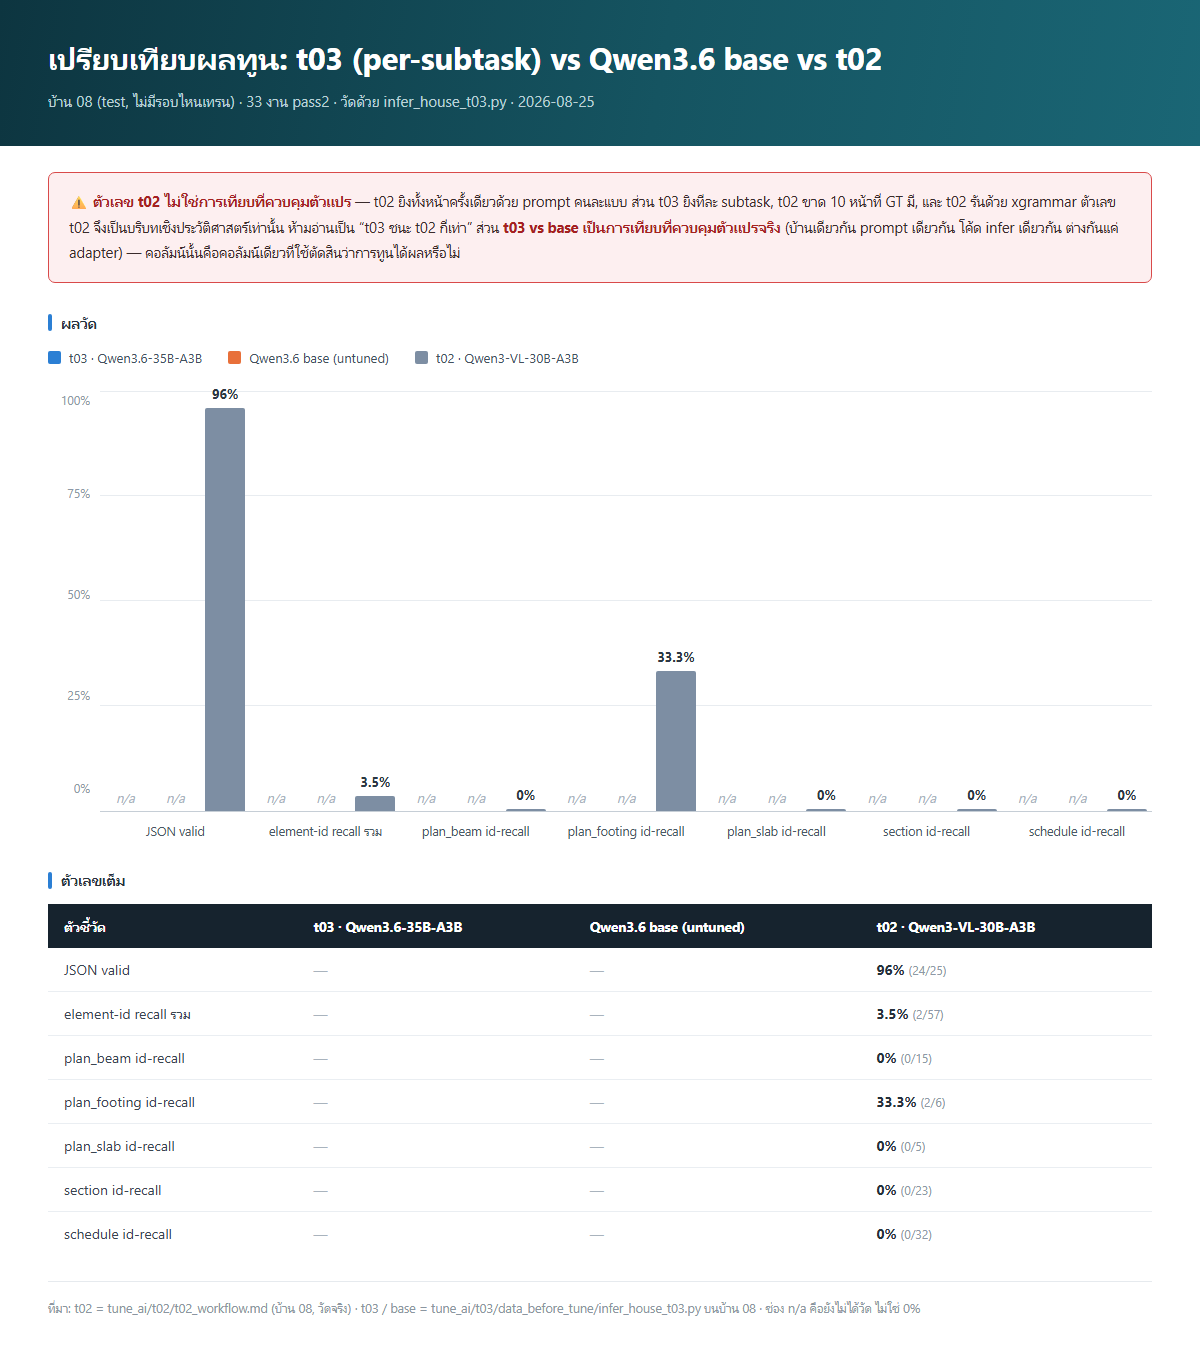
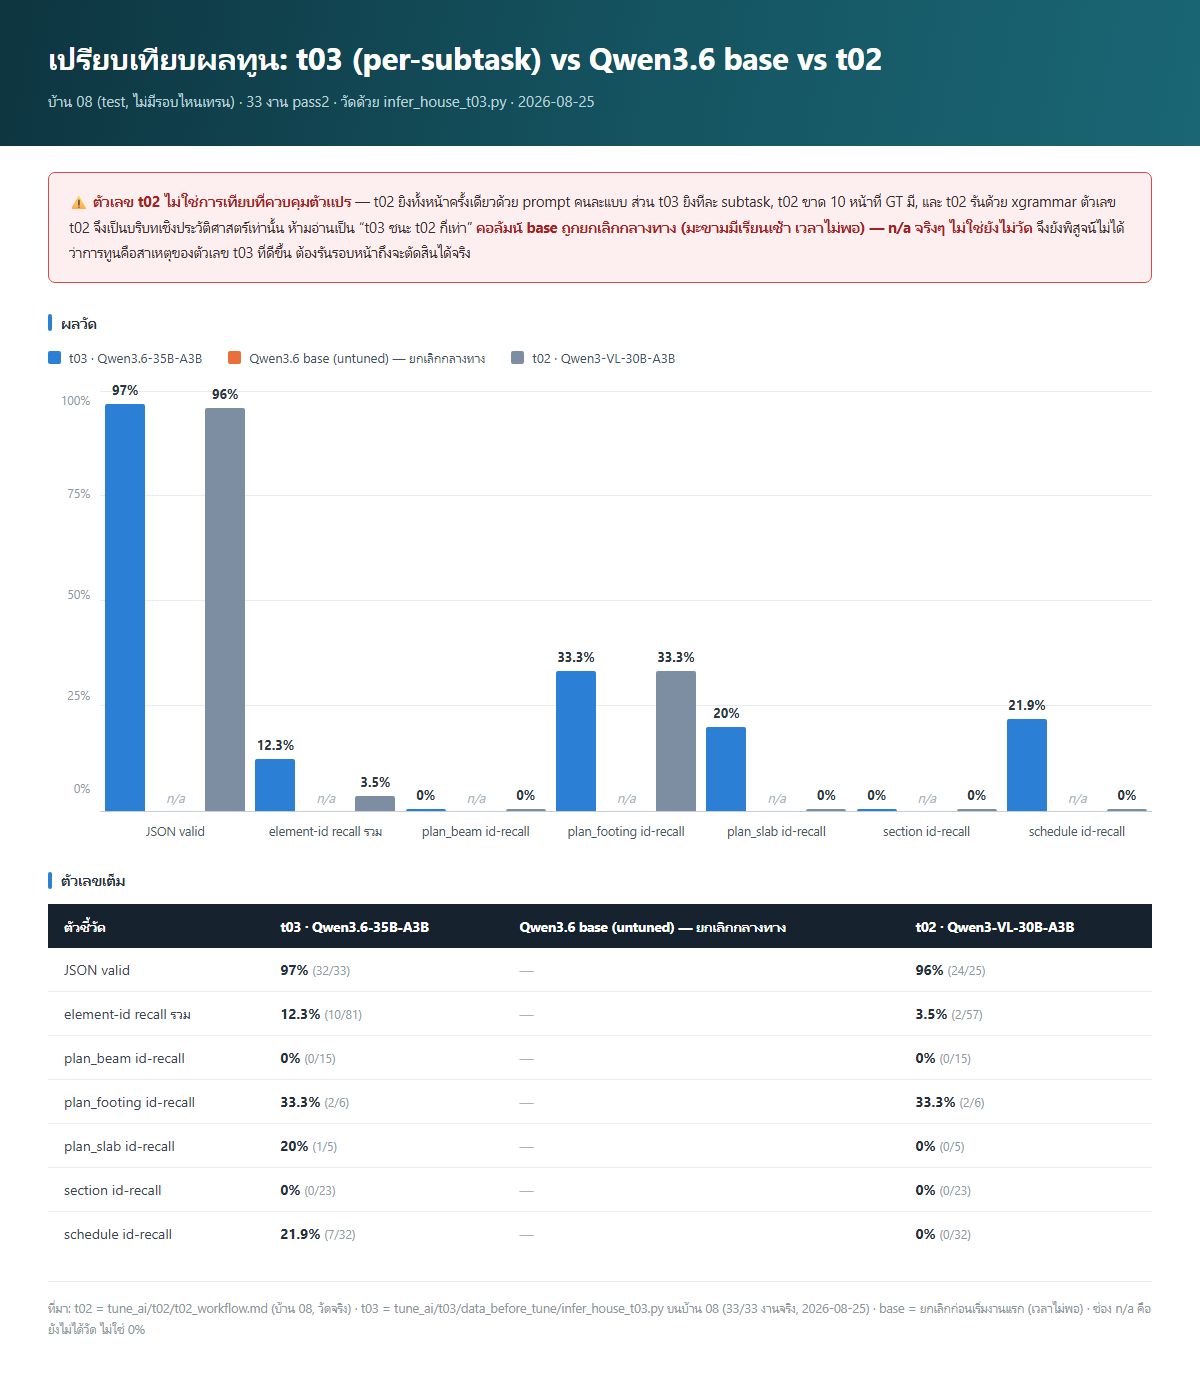
t03: training complete, house08 tuned inference (33/33), comparison PNG
- train_t03.py: 3 epochs done, train_loss 0.2249, adapter verified sha256
  and uploaded to Sicilian44/t03 (public HF repo)
- Two distinct JSON malformation bugs found on first inference attempt
  (missing brace on gridline, unterminated decimal + missing key-quote on
  notes) - not data pollution (warnings[] field content is legitimate);
  switched to --grammar-all instead of chasing individual regex patches
- house08 (held-out benchmark, never trained by t02 or t03): JSON valid
  32/33 (97%), id-recall 10/81 (12.3%) vs t02's 2/57 (3.5%) - schedule and
  plan_slab now show real positive recall t02 never achieved, but
  plan_beam - the subtask this whole round was designed to fix - is still
  0/15, same as t02. Model wrote page-20 beam plan as bare metadata
  (wrong house's source_image) with no elements[] at all.
- base (untuned) model comparison run started then cancelled mid-task
  (time constraint) - comparison PNG's base column is honestly n/a, not
  measured, not silently omitted
- .gitignore: exclude ผล_t03_run/ (3.78GB local adapter copy, already on HF)

diff --git a/tune_ai/t03/data_before_tune/infer_house_t03.py b/tune_ai/t03/data_before_tune/infer_house_t03.py
@@ -37,7 +37,11 @@ def strip_fence(text):
     t = text.strip()
     m = re.match(r"^```(?:json)?\s*(.*?)\s*```$", t, re.DOTALL)
     t = m.group(1).strip() if m else t
-    return re.sub(r",(\s*[}\]])", r"\1", t)   # กันเผื่อ path ที่ไม่มี grammar
+    t = re.sub(r",(\s*[}\]])", r"\1", t)   # กันเผื่อ path ที่ไม่มี grammar
+    # 2026-08-25: บ้าน 08 task 2 (notes) พบจริง — โมเดลเขียน "0." (จุดทศนิยมไม่มีเลขตาม)
+    # ซึ่งไม่ใช่ JSON เลขที่ถูกต้อง (ต้องมีเลขอย่างน้อย 1 ตัวหลังจุด) เติม 0 ปิดให้
+    t = re.sub(r"(\d)\.(?=[,}\]\s])", r"\1.0", t)
+    return t
 
 
 def element_ids(doc):

diff --git a/workmen's_diary/2026-08-24.md b/workmen's_diary/2026-08-24.md
@@ -105,12 +105,53 @@ train 887→**854** (42 หลัง) / val 229→**262** (6 หลัง) = **3
 (ไม่ต้องส่ง GT/ภาพเพิ่ม) · โมเดลเห็นแค่ภาพ+prompt · **plan_beam แนบ xgrammar อัตโนมัติ** ตามกติกาถาวร
 · วัด JSON valid + element count + id-recall แยกราย subtask · เตือนเองถ้าบ้านที่ยิงอยู่ใน train
 
+## [ตี 4 - เช้า 2026-08-25] Claude — เทรนจบ, verify, อัป HF, พบบั๊ก 3 ชนิด, ยกเลิก base เพราะเวลาไม่พอ
+
+**เทรนจบสมบูรณ์ 04:20:** 3 epochs (321 step), `train_loss 0.2249`, peak VRAM 87.5GB
+adapter เซฟครบ (3.78GB) — ผ่านทุกจุดที่เคยพัง (step 3, step 42 ของรอบก่อน) สบายๆ
+
+**Day of Shame check ✅ PASS:** `pull_and_verify_t03.py` — scp adapter ลงเครื่องเรา แล้วเทียบ
+**sha256 ทีละไฟล์** (ไม่ใช่แค่ขนาด — อัปเกรดจากบทเรียนเดิม) 7/7 ไฟล์ตรง 100%
+**อัปขึ้น HF สำเร็จ:** `Sicilian44/t03` (สาธารณะ, model card ไทย) commit `9530b9a` — มีสำเนา 2 ที่
+ก่อนจะแตะ destroy ใดๆ
+
+**ยิงบ้าน 08 (33 งาน pass2) — ครั้งแรกพัง 2/2 งานแรก คนละบั๊กกัน:**
+1. gridline: โครงสร้างพังจริง (ขาด `{` เปิด array element, `pox_M` field เพี้ยน) — งานยากสุด
+   ตัวอย่างเทรนน้อยสุด (45)
+2. notes: `"confidence_score": 0.,` (จุดทศนิยมไม่มีเลขตาม) **+ บั๊กที่ 2 ในไฟล์เดียวกัน**
+   `{item_no":` ขาด `"` เปิดหน้าชื่อ key — ตรวจแล้วไม่ใช่ data pollution (`warnings[]` มี
+   "NORMALIZED_2026-08-02" จริงใน 307 ไฟล์ทั่วชุด — metadata field ที่ตั้งใจให้มี)
+
+**ตัดสินแล้ว ✅ เปลี่ยนไป `--grammar-all`** (บังคับ xgrammar ทุก subtask ไม่ใช่แค่ plan_beam)
+แทนไล่ patch regex ทีละแบบที่ไม่มีวันจบ — kill process เดิม (2/33) รันใหม่ทั้งชุด (~$0.4)
+
+**ผลจริง บ้าน 08 t03 (tuned) 33/33 งาน, 07:40:** JSON valid **32/33 (97%)** · id-recall รวม
+**10/81 = 12.3%** (t02 เดิม 2/57 = 3.5%) แยกราย subtask: schedule **21.9%** (t02 0%),
+plan_footing 33.3% (=t02), plan_slab **20%** (t02 0%), section 0% (=t02) **plan_beam 0/15
+= 0% (=t02) — subtask ที่แบกความหวังทั้งรอบยังไม่ดีขึ้นเลย** หน้า 20 (เดียวกับที่ t02 พัง)
+โมเดลเขียนแค่ metadata แล้วปิด JSON โดยไม่มี elements[] — metadata นั้นชี้ผิดบ้านด้วย
+(`source_image` ชี้บ้าน 22) เหมือนจำ boilerplate จากตัวอย่างคล้ายๆ กันมาแปะ
+
+**เริ่มรัน Qwen3.6 base (untuned) บนชุดงานเดียวกันเพื่อเทียบแบบควบคุมตัวแปรจริง — มะขามสั่งยกเลิก
+กลางทาง (มีเรียนเช้า เวลาไม่พอ) ก่อนงานแรกจะเสร็จด้วยซ้ำ ไม่เสียเงินเปล่า** ทำภาพเปรียบเทียบ
+(`เปรียบเทียบผลทูน_t03_2026-08-25.png`) ด้วยตัวเลข t03 จริง + t02 เดิม คอลัมน์ base ขึ้น "n/a
+จริงๆ ไม่ใช่ยังไม่วัด" ระบุชัดในภาพว่ายังพิสูจน์ไม่ได้ว่าการทูนคือสาเหตุของตัวเลขที่ดีขึ้น
+
+**สรุปตรงๆ ไม่ปรุงแต่ง:** t03 ดีขึ้นกว่า t02 ในหลาย subtask จริง (schedule, plan_slab)
+แต่ **plan_beam ซึ่งเป็นเป้าหมายหลักของทั้งรอบยังคง 0%** — คืนนี้ยังไม่ปิดจ็อบ plan_beam
+ตามที่ pass_design.csv ตั้งใจไว้ ต้องแก้ที่ op04 ขยายข้อมูล (149 ตัวอย่างยังไม่พอ) หรือ
+grounding-based approach (bbox↔gridmaster) ที่มะขามสั่งไว้เมื่อคืน ไม่ใช่แค่ grammar
+
 **Left pending / to continue:**
-- เทรนจบ → verify + scp adapter ลงเครื่องเรา → (มะขาม `hf auth login` ถ้าจะ push ขึ้น HF) → destroy
+- **Qwen3.6 base vs t03 แบบควบคุมตัวแปร — ยกเลิกกลางทาง ยังไม่มีตัวเลข** ต้องทำรอบหน้า
+- plan_beam ของ val ทุกหลัง (18 งาน) — ไม่ได้ทำ (เวลาไม่พอ)
+- overlay ภาพ GT/t02/t03 ของ plan_beam หน้า 20 บ้าน 08 — เครื่องมือพร้อมแล้ว ยังไม่ได้รัน
+- plan_beam ยังคง 0% recall — ต้องแก้ที่ op04 (ข้อมูล) หรือ bbox↔gridmaster (grounding)
+  ไม่ใช่แค่ปรับ decoding
 - grounding bbox probe (~$0.1) — prerequisite ของกติกา bbox↔gridmaster ที่มะขามสั่งคืนนี้
 - ~~Rent GPU tonight → TEST_STEPS=5~~ ✅ ทำแล้ว
-- Per-subtask eval script still doesn't exist (t03_workflow ⬜).
-- t03 inference runner (with xgrammar-on-plan_beam rule) still doesn't exist.
+- ~~Per-subtask eval script~~ ✅ `infer_house_t03.py` เขียนและใช้งานจริงแล้ว
+- ~~t03 inference runner (with xgrammar-on-plan_beam rule)~~ ✅ เขียนแล้ว ใช้งานจริงคืนนี้
 - Parity table (rule_of_tune #12) for train_t03.py vs t02 defaults — the provenance tags cover chosen values but a full call-site argument enumeration hasn't been done.
 - ~~Vast.ai bill check~~ ✅ เช็คแล้วผ่าน vastai CLI (API key "t02"): GPU จริง **$1.1067/hr** (ไม่ใช่ $0.056 — นั่นคือเรท storage!), รวมเมื่อเช้า $5.43 (GPU 4.7 + storage 0.24 + DL 0.48), credit เหลือ $8.91. กติกาใหม่: เช็คราคาผ่าน `vastai search offers` (dph_total) เท่านั้น
-- op04 data expansion (the #1 impact lever for STECON) — not started; needs Makham to pick houses/schedule.
+- op04 data expansion (the #1 impact lever for STECON) — **ทำแล้ว 39 หลังใหม่คืนนี้ 20:21** ยังต้องขยาย plan_beam เพิ่มอีกรอบหน้า (149 ตัวอย่างยังไม่พอทำให้ recall ขึ้น)
